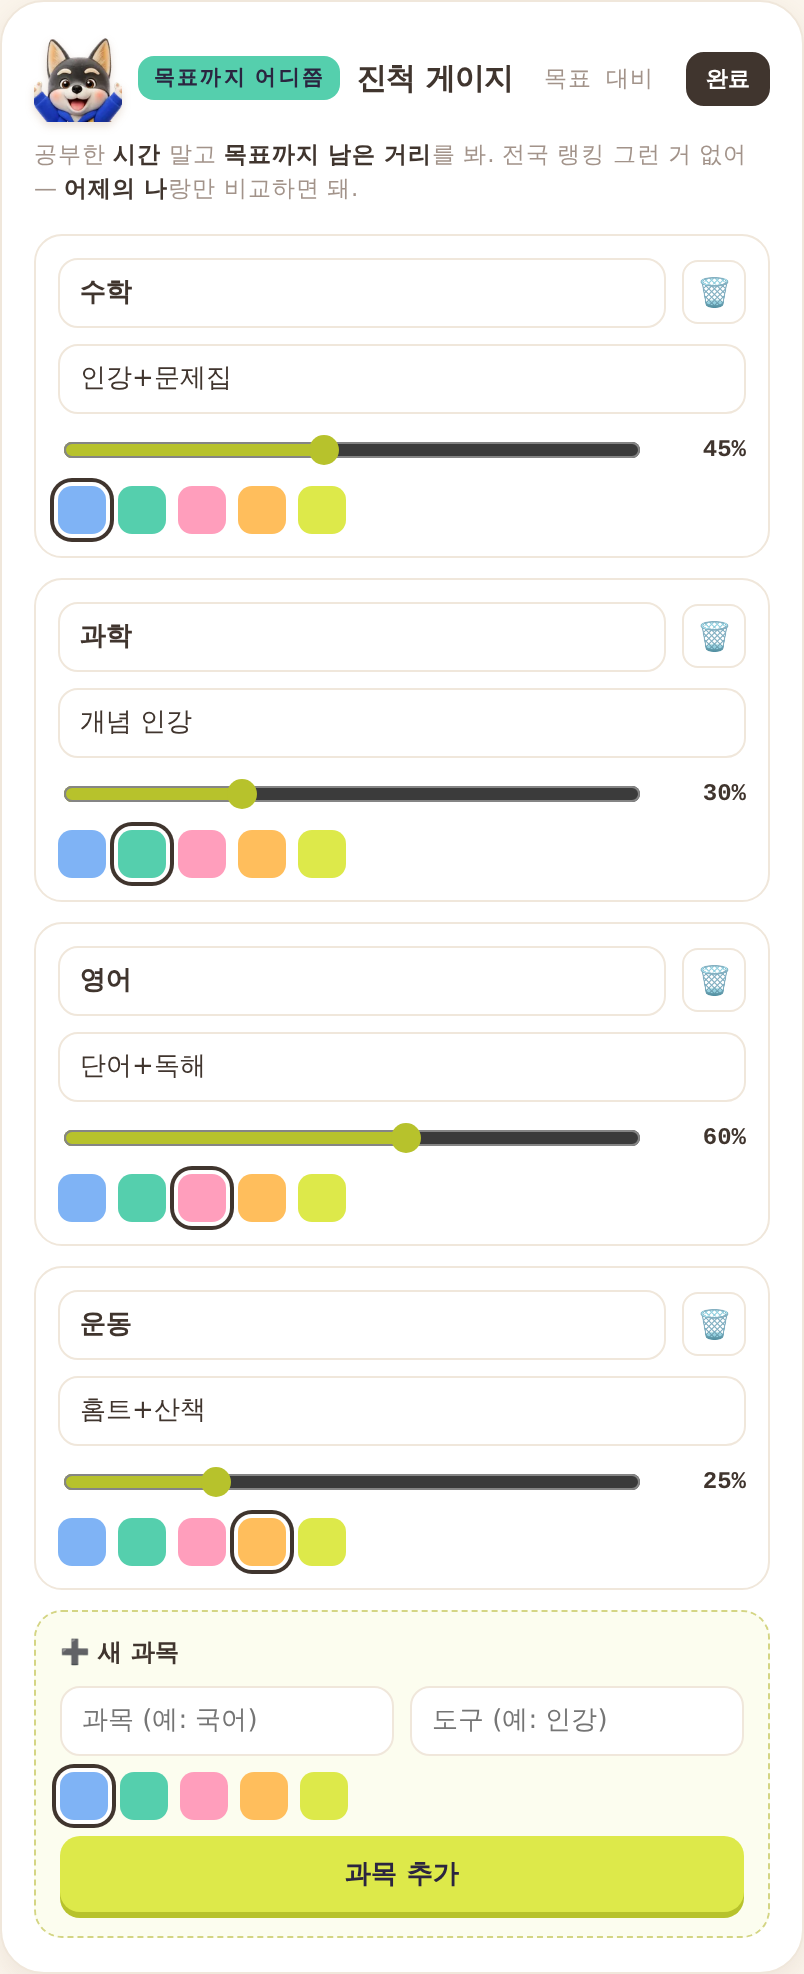
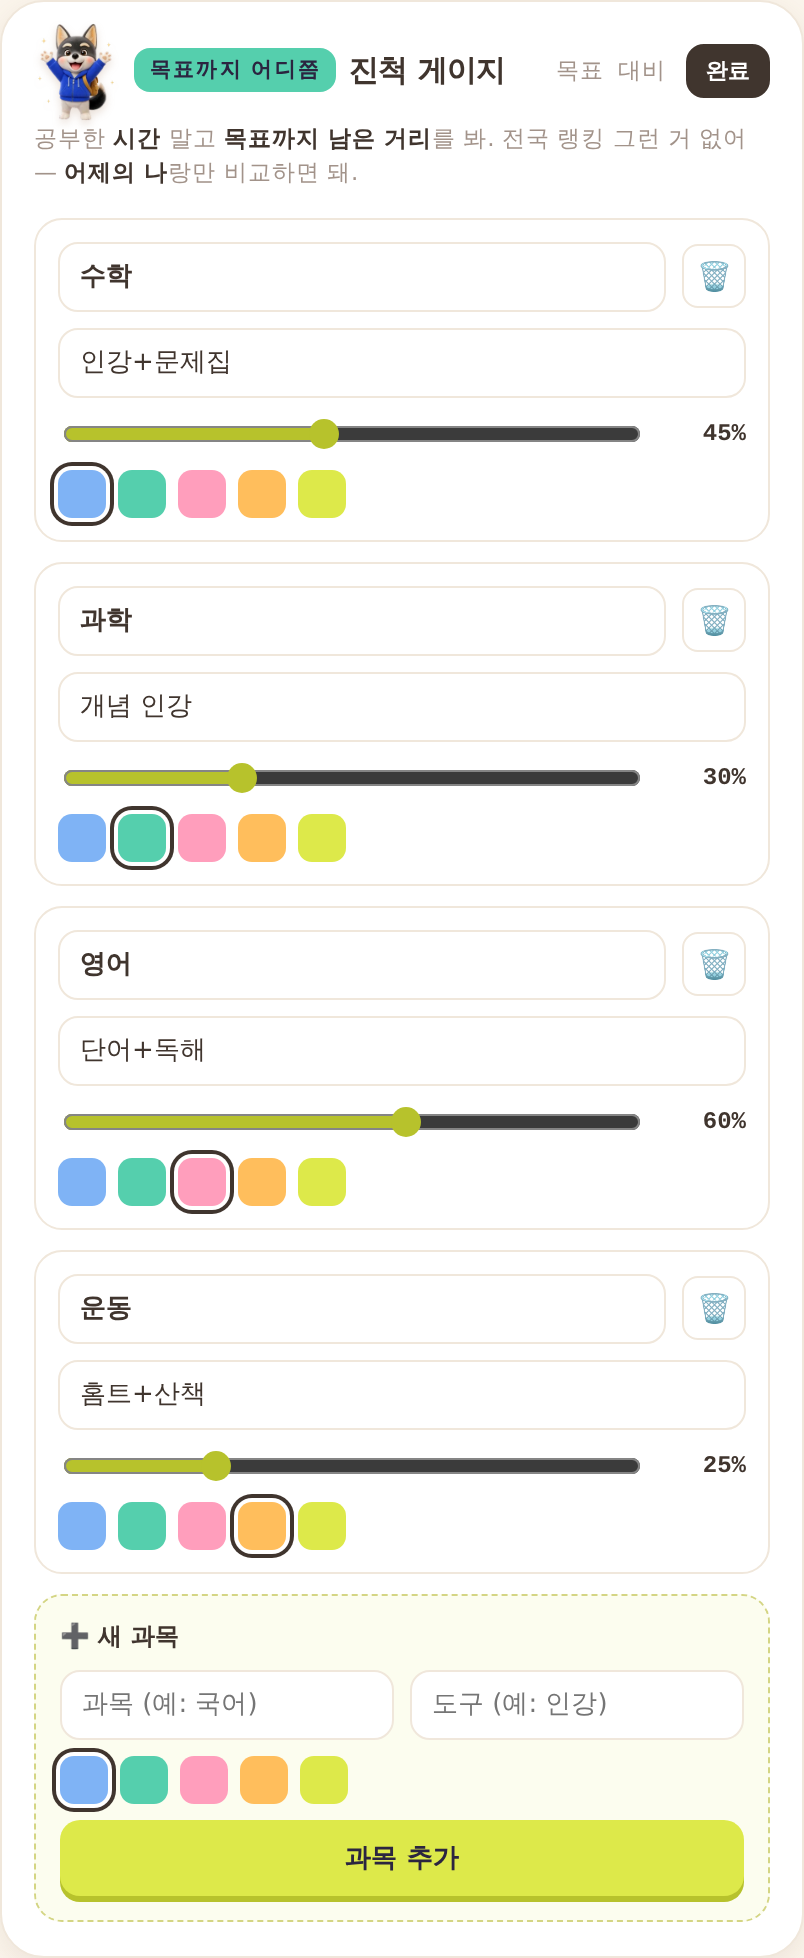
마스코트 포즈가 잘 보이도록 표시 영역 확대
- 카드 헤더 마스코트를 얼굴 크롭 → 전신으로 전환하고 54px로 확대
- 리듬 넛지의 달리기 이모지 제거, 그 자리에 92px 버디 배치(시간대별 포즈 전환)
- 헤더 간격 조정 및 좁은 화면 대응으로 편집 버튼 줄바꿈 해소
- 스크린샷 갱신

Claude-Session: https://claude.ai/code/session_01Aq5fCgQTr2L5UhckyziSbp

diff --git a/1_mission/6조/웃는돌(장경아)/4주차 과제 제출 폴더/haily-vacation-buddy.html b/1_mission/6조/웃는돌(장경아)/4주차 과제 제출 폴더/haily-vacation-buddy.html
@@ -129,7 +129,8 @@
   }
   #mascot:hover { transform: translateY(-2px) rotate(-3deg); }
   .mini {
-    width: 44px; height: 44px; flex: 0 0 auto; object-fit: contain; display: block;
+    width: 54px; height: 54px; flex: 0 0 auto; object-fit: contain; display: block;
+    margin: -8px -4px -10px -6px;
     filter: drop-shadow(0 2px 2px rgba(150,100,60,.20));
   }
   .hi { z-index: 1; }
@@ -159,7 +160,8 @@
     padding: 16px 16px 17px;
   }
   .card.dim { opacity: .55; }
-  .card-h { display: flex; align-items: center; gap: 8px; margin-bottom: 12px; flex-wrap: wrap; row-gap: 6px; }
+  .card-h { display: flex; align-items: center; gap: 6px; margin-bottom: 12px; flex-wrap: wrap; row-gap: 6px; }
+  @media (max-width: 410px) { .card-h .sub { display: none; } }
   .chip {
     font-size: 10.5px; font-weight: 800; letter-spacing: .6px; text-transform: uppercase;
     padding: 4px 8px; border-radius: 8px; color: #2b2540;
@@ -202,7 +204,8 @@
 
   /* rhythm nudge */
   .nudge-body { display: flex; gap: 12px; align-items: center; }
-  .nudge-emoji { font-size: 30px; }
+  .nudge-buddy { width: 92px; height: 92px; flex: 0 0 auto; object-fit: contain; display: block;
+    margin: -10px -4px -12px -6px; filter: drop-shadow(0 3px 4px rgba(150,100,60,.20)); }
   .nudge-body p { margin: 0; font-size: 13px; line-height: 1.5; }
   .nudge-actions { display: flex; gap: 8px; margin-top: 13px; }
   .nudge-actions button {
@@ -296,7 +299,7 @@
 
   /* edit mode */
   .edit-btn {
-    margin-left: 8px; border: 1px solid var(--line); background: var(--card); color: var(--muted);
+    margin-left: 4px; border: 1px solid var(--line); background: var(--card); color: var(--muted);
     font-size: 11px; font-weight: 700; padding: 5px 9px; border-radius: 9px; cursor: pointer;
     font-family: var(--font); white-space: nowrap; transition: background .15s ease, color .15s ease;
   }
@@ -361,7 +364,7 @@
     background: var(--card); border: 1px solid var(--line); border-radius: 16px;
     padding: 9px 12px; box-shadow: var(--shadow-sm);
   }
-  .qb-mascot { width: 42px; height: 42px; }
+  .qb-mascot { width: 52px; height: 52px; margin: -6px -2px -6px -4px; }
   .qb-body { min-width: 0; }
   .qb-label { font-size: 10px; font-weight: 800; letter-spacing: .5px; color: var(--muted); text-transform: uppercase; margin-bottom: 2px; }
   .qb-text { font-size: 13px; font-weight: 700; color: var(--ink); line-height: 1.45; letter-spacing: -.2px; }
@@ -479,13 +482,12 @@
   <!-- 리듬 넛지 -->
   <div class="card" id="cNudge">
     <div class="card-h">
-      <img class="mini" data-expr="run" alt="" aria-hidden="true" />
       <span class="chip" style="background:var(--apricot)">지치지 않게</span>
       <h2>리듬 넛지</h2>
       <span class="sub" id="nowClock">--:--</span>
     </div>
     <div class="nudge-body">
-      <div class="nudge-emoji" id="nudgeEmoji">🏃♀</div>
+      <img class="nudge-buddy" id="nudgeBuddy" alt="" aria-hidden="true" />
       <p id="nudgeMsg">지금 슬슬 몸 움직일 시간! 15분만 스트레칭하고 오면 오후 집중력이 달라져.</p>
     </div>
     <div class="nudge-actions" id="nudgeActions">
@@ -596,11 +598,11 @@
     var map = useHead ? BUDDY_HEAD : BUDDY_FULL;
     el.src = map[expr] || map.happy;
   }
-  function drawChar(el, expr) { setBuddy(el, expr, el.classList.contains("mini")); }
+  function drawChar(el, expr) { setBuddy(el, expr, false); }
   function drawMascot() { setBuddy(cvs, heroExpr, false); }
   function drawAllMinis() {
     var ms = document.querySelectorAll("img.mini");
-    for (var i = 0; i < ms.length; i++) { setBuddy(ms[i], ms[i].getAttribute("data-expr") || "happy", true); }
+    for (var i = 0; i < ms.length; i++) { setBuddy(ms[i], ms[i].getAttribute("data-expr") || "happy", false); }
   }
   drawMascot(); drawAllMinis();
   setBuddy(document.getElementById("logoImg"), "happy", true);
@@ -660,25 +662,25 @@
       String(h).padStart(2, "0") + ":" + String(now.getMinutes()).padStart(2, "0");
 
     var g = document.getElementById("greet"), gs = document.getElementById("greetSub");
-    var em = document.getElementById("nudgeEmoji"), nm = document.getElementById("nudgeMsg");
+    var em = document.getElementById("nudgeBuddy"), nm = document.getElementById("nudgeMsg");
     if (h >= 5 && h < 12) {
       g.textContent = "좋은 아침, Haily! 🌱";
       gs.textContent = "오늘도 스스로 굴러가볼까? 뭐부터 할지 내가 정리해뒀어.";
-      em.textContent = "🥣"; nm.textContent = "아침이 하루를 정해. 제일 안 풀리는 것부터 딱 하나 시작하자.";
+      setBuddy(em, "point", false); nm.textContent = "아침이 하루를 정해. 제일 안 풀리는 것부터 딱 하나 시작하자.";
       setMode("am");
     } else if (h >= 12 && h < 18) {
       g.textContent = "오후엔 페이스가 관건! ☀";
       gs.textContent = "지치기 쉬운 시간이야. 낮잠 대신 몸 한번 움직여줄까?";
-      em.textContent = "🏃♀"; nm.textContent = "슬슬 몸 움직일 시간! 15분만 스트레칭하고 오면 오후 집중력이 달라져.";
+      setBuddy(em, "run", false); nm.textContent = "슬슬 몸 움직일 시간! 15분만 스트레칭하고 오면 오후 집중력이 달라져.";
     } else if (h >= 18 && h < 23) {
       g.textContent = "하루 마무리 시간이야 🌙";
       gs.textContent = "회고 3줄만 쓰면 오늘도 스스로 잘 닫은 거야.";
-      em.textContent = "🛏"; nm.textContent = "이제 마무리 모드. 회고 3줄 쓰고 밤엔 푹 자야 내일 아침이 편해.";
+      setBuddy(em, "happy", false); nm.textContent = "이제 마무리 모드. 회고 3줄 쓰고 밤엔 푹 자야 내일 아침이 편해.";
       setMode("pm");
     } else {
       g.textContent = "너무 늦었어, Haily 🌛";
       gs.textContent = "지금 밤새면 바이오리듬이 깨져. 내일을 위해 오늘은 여기까지!";
-      em.textContent = "😴"; nm.textContent = "밤샘은 내일의 나를 힘들게 해. 회고만 남기고 얼른 자자.";
+      setBuddy(em, "sleepy", false); nm.textContent = "밤샘은 내일의 나를 힘들게 해. 회고만 남기고 얼른 자자.";
       setMode("pm");
     }
     heroExpr = (h >= 5 && h < 12) ? "wave" : (h >= 12 && h < 18) ? "run" : (h >= 18 && h < 23) ? "happy" : "sleepy";
